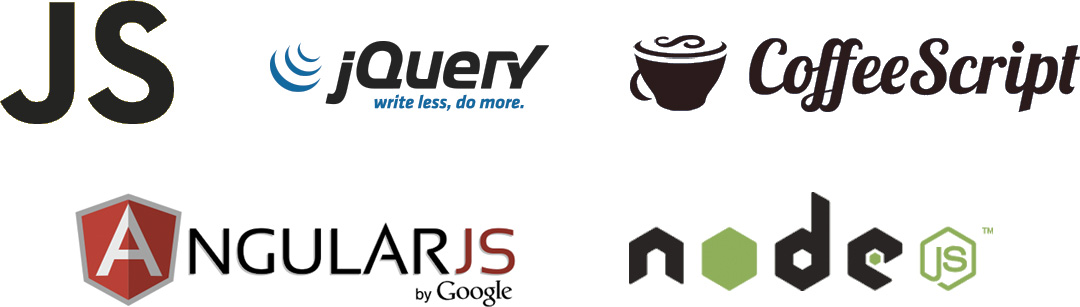
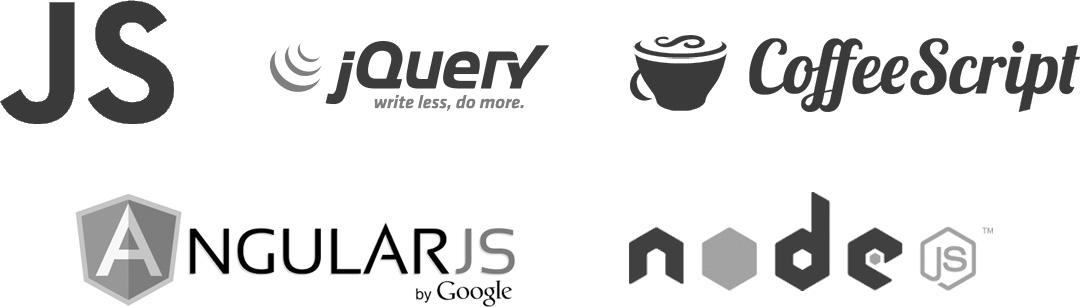
Fix menu and B&W the technology images

diff --git a/_layouts/default.html b/_layouts/default.html
@@ -11,14 +11,14 @@
 		<meta name="description" content="" />
 		<meta name="keywords" content="" />
 		<!--[if lte IE 8]><script src="css/ie/html5shiv.js"></script><![endif]-->
-		<script src="http://abefehr.com/js/jquery.min.js"></script>
-		<script src="http://abefehr.com/js/jquery.poptrox.min.js"></script>
-		<script src="http://abefehr.com/js/skel.min.js"></script>
-		<script src="http://abefehr.com/js/init.js"></script>
+		<script src="js/jquery.min.js"></script>
+		<script src="js/jquery.poptrox.min.js"></script>
+		<script src="js/skel.min.js"></script>
+		<script src="js/init.js"></script>
 		<noscript>
-			<link rel="stylesheet" href="http://abefehr.com/css/skel.css" />
-			<link rel="stylesheet" href="http://abefehr.com/css/style.css" />
-			<link rel="stylesheet" href="http://abefehr.com/css/style-xlarge.css" />
+			<link rel="stylesheet" href="css/skel.css" />
+			<link rel="stylesheet" href="css/style.css" />
+			<link rel="stylesheet" href="css/style-xlarge.css" />
 		</noscript>
 		<!--[if lte IE 8]><link rel="stylesheet" href="css/ie/v8.css" /><![endif]-->
 	</head>
@@ -27,7 +27,7 @@
 		<!-- Header -->
 			<header id="header">
 				<div id="header-container" style="height:calc(100% - 175px)">
-					<a href="#" class="image avatar"><img src="http://abefehr.com/images/avatar.jpg" alt="" /></a>
+					<a href="#" class="image avatar"><img src="images/avatar.jpg" alt="" /></a>
 					<h1><strong>I'm Abe.</strong> I like to program.</h1>
 
 					<h4 class="list-title">Blog Posts</h4>

diff --git a/js/init.js b/js/init.js
@@ -20,7 +20,7 @@
 		reset: 'full',
 		containers: '100%',
 		breakpoints: {
-			global: { href: 'http://abefehr.com/css/style.css', grid: { gutters: ['2.5em', 0] } },
+			global: { href: 'css/style.css', grid: { gutters: ['2.5em', 0] } },
 			xlarge: { media: '(max-width: 1800px)', href: 'http://abefehr.com/css/style-xlarge.css' },
 			large: { media: '(max-width: 1280px)', href: 'http://abefehr.com/css/style-large.css', grid: { gutters: ['2em', 0] } },
 			medium: { media: '(max-width: 980px)', href: 'http://abefehr.com/css/style-medium.css'},

diff --git a/css/style.css b/css/style.css
@@ -1262,8 +1262,6 @@
 		overflow: hidden;
 	}
 	div.posts-list-inner-container {
-		position: absolute;
-		left: 0;
 		height:100%;
 		overflow-x: hidden;
 		overflow-y: scroll;
